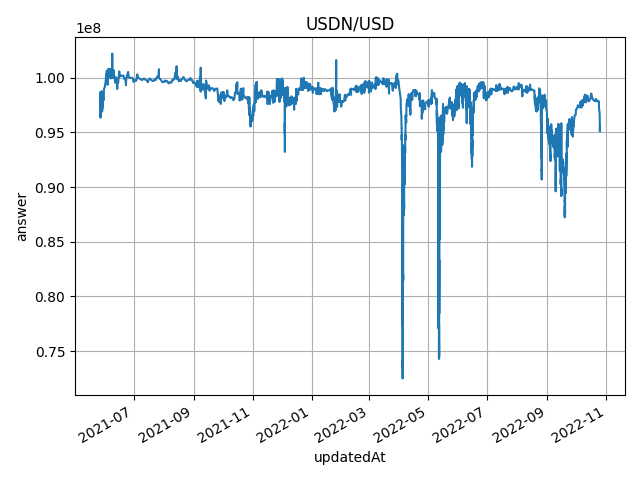
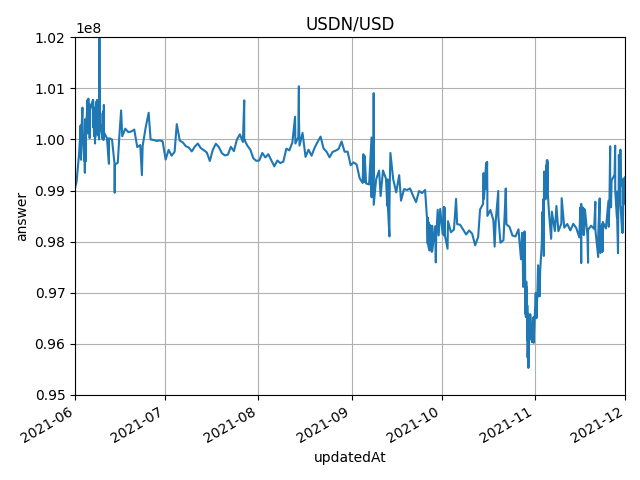
add initial depeg analysis

diff --git a/scripts/analyze_feed_all.py b/scripts/analyze_feed_all.py
@@ -1,0 +1,94 @@
+import argparse
+import matplotlib.pyplot as plt
+import numpy as np
+import pandas as pd
+import sys
+
+from datetime import datetime
+
+DECIMALS = 8
+MIN_VALUE = 0.95
+MAX_DELTA = 0.015
+WARN_DELTA = 0.0025
+
+# https://stackoverflow.com/questions/59286254/export-time-series-plot
+# https://matplotlib.org/stable/tutorials/introductory/pyplot.html
+def main() -> int:
+    parser = argparse.ArgumentParser(description='plot csv price feed data.')
+    parser.add_argument('csv', type=str, help='feed csv input file')
+    parser.add_argument('--decimals', type=int, default=DECIMALS, help='decimals for exchange rate resolution (int, default={})'.format(DECIMALS))
+    parser.add_argument('--minValue', type=float, default=MIN_VALUE, help='lowest acceptable exchange rate (float, default={})'.format(MIN_VALUE))
+    parser.add_argument('--maxDelta', type=float, default=MAX_DELTA, help='maximum delta between two consecutive values (float, default={})'.format(MAX_DELTA))
+    parser.add_argument('--warnDelta', type=float, default=WARN_DELTA, help='delta between two consecutive values that triggers warning (float, default={})'.format(WARN_DELTA))
+    args = parser.parse_args()
+
+    feed = pd.read_csv(args.csv)
+    feedSorted = feed.sort_values('roundId')
+
+    answerLast = 10**args.decimals
+    roundIdLast = 0
+    startedAtLast = 0
+    updatedAtLast = 0
+    answeredInRoundLast = 0
+    phaseIdLast = 0
+
+    minValue = int(args.minValue * 10 ** args.decimals)
+    maxDelta = int(args.maxDelta * 10 ** args.decimals)
+    warnDelta = int(args.warnDelta * 10 ** args.decimals)
+
+    print('minValue: {} ({})'.format(args.minValue, minValue))
+    print('maxDelta: {} ({})'.format(args.maxDelta, maxDelta))
+    print('warnDelta: {} ({})'.format(args.warnDelta, warnDelta))
+
+    for row in feedSorted.index:
+        data = feedSorted.loc[row]
+
+        # attribute setup
+        roundId = int(data['roundId'])
+        answer = int(data['answer'])
+        startedAt = int(data['startedAt'])
+        updatedAt = int(data['updatedAt'])
+        answeredInRound = int(data['answeredInRound'])
+        phaseId = int(data['phaseId'])
+        
+        dtAt = datetime.fromtimestamp(updatedAt, tz=None)
+        dateTimeAt = dtAt.strftime('%Y-%m-%d %H:%M:%S')
+
+        # check convertion
+        assert str(roundId) == str(data['roundId']), "ERROR str->int for roundId (found {} in roundId {}, expected {})".format(str(roundId), roundId, data)
+        assert str(answer) == str(data['answer']), "ERROR str->int for answer (found {} in roundId {}, expected {})".format(str(roundId), roundId, data)
+        assert str(startedAt) == str(data['startedAt']), "ERROR str->int for startedAt (found {} in roundId {}, expected {})".format(str(startedAt), roundId, data)
+        assert str(updatedAt) == str(data['updatedAt']), "ERROR str->int for updatedAt (found {} in roundId {}, expected {})".format(str(updatedAt), roundId, data)
+        # attribute value validation
+        assert roundId > roundIdLast, "ERROR roundId not incrementing (roundId: {})".format(roundId)
+        assert answer >= minValue, "ERROR answer outside bounds (roundId: {}, answer {}, minValue {})".format(roundId, answer, minValue)
+        assert answeredInRound >= answeredInRoundLast, "ERROR answeredInRound not incrementing (roundId: {}, answeredInRound: {})".format(roundId, answeredInRound)
+        
+        if roundId == roundIdLast + 1:
+            assert startedAt >= startedAtLast, "ERROR startedAt not incrementing (roundId {}, startedAt {}, startedAtLast {})".format(roundId, startedAt, startedAtLast)
+            assert updatedAt >= updatedAtLast, "ERROR updatedAt not incrementing (roundId: {})".format(roundId)
+            assert phaseId == phaseIdLast, "ERROR phaseId unexpectedly changed (roundId: {}, phaseId: {})".format(roundId, phaseId)
+        else:            
+            assert phaseId > phaseIdLast, "ERROR phaseId not incrementing (roundId: {}, phaseId: {})".format(roundId, phaseId)
+
+        delta = abs(answer - answerLast) 
+        assert delta <= maxDelta, "ERROR answer delta too big (roundId {}, delta {}, maxDelta {}, answer {}, answerLast {})".format(roundId, delta, maxDelta, answer, answerLast)
+
+        if delta >= warnDelta:
+            print("WARN large answer delta (roundId {}, delta {}, warnDelta {}, answer {}, answerLast {})".format(roundId, delta, warnDelta, answer, answerLast))
+
+        # remember current values for next round
+        roundIdLast = roundId
+        answerLast = answer
+        startedAtLast = startedAt
+        updatedAtLast = updatedAt
+        answeredInRoundLast = answeredInRound
+        phaseIdLast = phaseId
+
+    return 0
+
+
+# example command line for calling this script
+# python scripts/compact_feed_csv.py chainlink_usdc_usd_all.csv
+if __name__ == '__main__':
+    sys.exit(main())

diff --git a/scripts/analyze_feed.py b/scripts/analyze_feed.py
@@ -1,0 +1,126 @@
+import argparse
+import matplotlib.pyplot as plt
+import numpy as np
+import pandas as pd
+import sys
+
+from datetime import datetime
+
+DECIMALS = 8
+TRIGGER_VALUE = 0.99
+RECOVER_VALUE = 0.95
+PLOT_MIN_VALUE = 0.85
+MAX_DURATION = 1
+
+def duration2str(seconds:int) -> str:
+    minutes = int(seconds / 60)
+    hours = int(seconds / 3600)
+    days = int(seconds / 86400)
+
+    remainingHours = hours - days * 24
+    remainingMinutes = minutes - hours * 60
+    remainingSeconds = seconds % 60
+
+    return "{}d {}:{}:{}".format(days, remainingHours, remainingMinutes, remainingSeconds)
+
+
+# https://stackoverflow.com/questions/59286254/export-time-series-plot
+# https://matplotlib.org/stable/tutorials/introductory/pyplot.html
+def main() -> int:
+    parser = argparse.ArgumentParser(description='plot csv price feed data.')
+    parser.add_argument('csv', type=str, help='feed csv input file')
+    parser.add_argument('--decimals', type=int, default=DECIMALS, help='decimals for exchange rate resolution (int, default={})'.format(DECIMALS))
+    parser.add_argument('--triggerValue', type=float, default=TRIGGER_VALUE, help='depeg trigger exchange rate (float, default={})'.format(TRIGGER_VALUE))
+    parser.add_argument('--recoverValue', type=float, default=RECOVER_VALUE, help='minimal exchange rate to auto-recover (float, default={})'.format(RECOVER_VALUE))
+    parser.add_argument('--maxDuration', type=int, default=MAX_DURATION, help='max days allowed below trigger (int, default={})'.format(MAX_DURATION))
+    parser.add_argument('--plotMinValue', type=float, default=PLOT_MIN_VALUE, help='plot y min value (float, default={})'.format(PLOT_MIN_VALUE))
+    parser.add_argument('--title', type=str, help='title for plot')
+    parser.add_argument('--pngFile', type=str, default='out.png', help='plot png output file')
+    args = parser.parse_args()
+
+    feed = pd.read_csv(args.csv)
+    feedSorted = feed.sort_values('roundId')
+
+    triggerValue = int(args.triggerValue * 10 ** args.decimals)
+    recoverValue = int(args.recoverValue * 10 ** args.decimals)
+
+    print('triggerValue: {} ({})'.format(args.triggerValue, triggerValue))
+    print('recoverValue: {} ({})'.format(args.recoverValue, recoverValue))
+
+    depegs = []
+
+    triggeredAt = 0
+    triggerTicks = 0
+    lastUpdatedAt = 0
+
+    for row in feedSorted.index:
+        data = feedSorted.loc[row]
+
+        # attribute setup
+        roundId = int(data['roundId'])
+        answer = int(data['answer'])
+        updatedAt = int(data['updatedAt'])
+        dateTimeAt = data['dateTimeAt']
+
+        # trigger kicks in
+        if triggeredAt == 0 and answer <= triggerValue:
+            triggeredAt = updatedAt
+            triggerTicks = 0
+            
+            print("TRIGGER roundId {} answer {} trigger {} dateTimeAt {}".format(roundId, answer, triggerValue, dateTimeAt))
+
+        if triggeredAt > 0:
+            # not yet recovered
+            if answer < recoverValue:
+                triggerTicks += 1
+            # recovered at or higher than min value
+            else:
+                depegs.append((triggeredAt, updatedAt))
+                duration = updatedAt - triggeredAt
+                print("RECOVER ------- {} ticks {} roundId {} answer {} dateTimeAt {}".format(duration2str(duration), triggerTicks, roundId, answer, dateTimeAt))
+                triggeredAt = 0
+        
+        lastUpdatedAt = updatedAt
+    
+    if triggeredAt > 0:
+        depegs.append((triggeredAt, lastUpdatedAt))
+    
+    feed['dateTime'] = feed['dateTimeAt'].apply(pd.to_datetime)
+    feed.set_index('dateTime',inplace=True)
+    
+    ax = feed['answer'].plot(grid=True)
+    ax.set_xlim(pd.Timestamp('2022-01-01'), pd.Timestamp('2022-11-01'))
+    ax.set_ylim(int(args.plotMinValue * 100000000), 104000000)
+
+    # draw trigger and min value lines
+    ax.axhline(y=recoverValue, color='green', alpha=0.3, linestyle='-')
+    ax.axhline(y=triggerValue, color='red', alpha=0.3, linestyle='--')
+
+    # draw depeg phases
+    for phase in depegs:
+        fromTs = datetime.fromtimestamp(phase[0], tz=None)
+        toTs = datetime.fromtimestamp(phase[1], tz=None)
+        seconds = phase[1] - phase[0]
+
+        col = 'red'
+        if seconds / (24 * 3600) < args.maxDuration:
+            col = 'grey'
+
+        ax.axvspan(fromTs, toTs, color=col, alpha=0.3)
+
+    if args.title:
+        plt.title(args.title)
+    
+    plt.xlabel('updatedAt')
+    plt.ylabel('answer')
+    plt.tight_layout()
+    plt.savefig(args.pngFile, dpi=150)
+
+
+    return 0
+
+
+# example command line for calling this script
+# python scripts/compact_feed_csv.py chainlink_usdc_usd_all.csv
+if __name__ == '__main__':
+    sys.exit(main())

diff --git a/scripts/histogram_feed.py b/scripts/histogram_feed.py
@@ -9,25 +9,26 @@ from datetime import datetime
 # https://stackoverflow.com/questions/59286254/export-time-series-plot
 # https://matplotlib.org/stable/tutorials/introductory/pyplot.html
 def main() -> int:
-    parser = argparse.ArgumentParser(description='plot csv price feed data.')
+    parser = argparse.ArgumentParser(description='creates price feed data histogram')
     parser.add_argument('csv', type=str, help='compressed feed csv input file')
-    parser.add_argument('png', type=str, help='plot png output file')
-    parser.add_argument('--title', type=str, help='title for plot')
+    parser.add_argument('png', type=str, help='histogram png output file')
+    parser.add_argument('--title', type=str, help='title for histogram')
     args = parser.parse_args()
 
     feed = pd.read_csv(args.csv)
-    feed['dateTime'] = feed['dateTimeAt'].apply(pd.to_datetime)
-    feed.set_index('dateTime',inplace=True)
+    # feed['dateTime'] = feed['dateTimeAt'].apply(pd.to_datetime)
+    # feed.set_index('dateTime',inplace=True)
     
-    ax = feed['answer'].plot(grid=True)
-    ax.set_xlim(pd.Timestamp('2021-06-01'), pd.Timestamp('2021-12-01'))
-    ax.set_ylim(95000000, 102000000)
+    ax = feed['answer'].hist(bins=30, rwidth=0.9)
+    # ax = feed['answer'].plot(grid=True)
+    # ax.set_xlim(0.90 * 10**8, 1.01 * 10**8)
+    # ax.set_ylim(0, 10)
     
     if args.title:
         plt.title(args.title)
     
-    plt.xlabel('updatedAt')
-    plt.ylabel('answer')
+    plt.xlabel('answer')
+    plt.ylabel('frequency')
     plt.tight_layout()
     plt.savefig(args.png)
 

diff --git a/README.md b/README.md
@@ -66,9 +66,11 @@ python scripts/plot_feed.py chainlink_usdc_usd.csv chainlink_usdc_usd.png --titl
 
 Resulting plot
 
-![USDC/USD plot](./chainlink_usdc_usd.png)
+![USDC/USD plot](./chainlink_usdc_usd.png) 
+![USDC/USD histogram](./chainlink_usdc_usd_hist.png)
 
-### USDT Condenced
+
+### USDT Condensed
 
 ```bash
 python scripts/price_feed.py --net mainnet --pair USDT/USD > chainlink_usdt_usd_all.txt
@@ -80,8 +82,9 @@ python scripts/plot_feed.py chainlink_usdt_usd.csv chainlink_usdt_usd.png --titl
 Resulting plot
 
 ![USDT/USD plot](./chainlink_usdt_usd.png)
+![USDT/USD histogram](./chainlink_usdt_usd_hist.png)
 
-### USDN Condenced
+### USDN Condensed
 
 ```bash
 python scripts/price_feed.py --net mainnet --pair USDN/USD > chainlink_usdn_usd_all.txt
@@ -93,3 +96,65 @@ python scripts/plot_feed.py chainlink_usdn_usd.csv chainlink_usdn_usd.png --titl
 Resulting plot
 
 ![USDN/USD plot](./chainlink_usdn_usd.png)
+![USDN/USD histogram](./chainlink_usdn_usd_hist.png)
+
+
+## Depeg Trigger and Recovery
+### USDC Depeg
+
+```bash
+python scripts/analyze_feed.py chainlink_usdc_usd.csv --triggerValue 0.995 --recoverValue 0.999 --maxDuration 1 --plotMinValue 0.97 --title "USDC/USD" --pngFile chainlink_usdc_depeg.png
+```
+
+Script output
+
+```bash
+triggerValue: 0.995 (99500000)
+recoverValue: 0.999 (99900000)
+```
+
+Plot
+
+![USDC/USD plot](./chainlink_usdc_depeg.png)
+
+### USDT Depeg
+
+```bash
+python scripts/analyze_feed.py chainlink_usdt_usd.csv --triggerValue 0.99 --recoverValue 0.995 --maxDuration 1 --plotMinValue 0.9 --title "USTC/USD" --pngFile chainlink_usdt_depeg.png
+```
+
+Script output
+
+```bash
+triggerValue: 0.99 (99000000)
+recoverValue: 0.995 (99500000)
+TRIGGER roundId 36893488147419103690 answer 98750000 trigger 99000000 dateTimeAt 2022-05-12 06:23:41
+RECOVER ------- 0d 9:19:36 ticks 41 roundId 36893488147419103731 answer 99753476 dateTimeAt 2022-05-12 15:43:17
+```
+
+Plot
+![USDT/USD plot](./chainlink_usdt_depeg.png)
+
+### USDN Depeg
+
+```bash
+python scripts/analyze_feed.py chainlink_usdn_usd.csv --triggerValue 0.97 --recoverValue 0.985 --maxDuration 2 --plotMinValue 0.85 --title "USDN/USD" --pngFile chainlink_usdn_depeg.png
+```
+
+Script output
+
+```bash
+...
+TRIGGER roundId 18446744073709552311 answer 96900000 trigger 97000000 dateTimeAt 2022-01-24 08:05:45
+RECOVER ------- 1d 11:0:42 ticks 25 roundId 18446744073709552336 answer 98622300 dateTimeAt 2022-01-25 19:06:27
+TRIGGER roundId 18446744073709552534 answer 96992500 trigger 97000000 dateTimeAt 2022-04-03 00:00:20
+RECOVER ------- 11d 1:34:9 ticks 321 roundId 18446744073709552855 answer 98613144 dateTimeAt 2022-04-14 01:34:29
+TRIGGER roundId 18446744073709552879 answer 96798900 trigger 97000000 dateTimeAt 2022-04-24 11:16:04
+RECOVER ------- 10d 12:33:33 ticks 25 roundId 18446744073709552904 answer 98858013 dateTimeAt 2022-05-04 23:49:37
+TRIGGER roundId 18446744073709552917 answer 96750659 trigger 97000000 dateTimeAt 2022-05-10 00:09:57
+RECOVER ------- 20d 6:34:13 ticks 1592 roundId 18446744073709554509 answer 98603667 dateTimeAt 2022-05-30 06:44:10
+...
+```
+
+Plot
+![USDN/USD plot](./chainlink_usdn_depeg.png)
